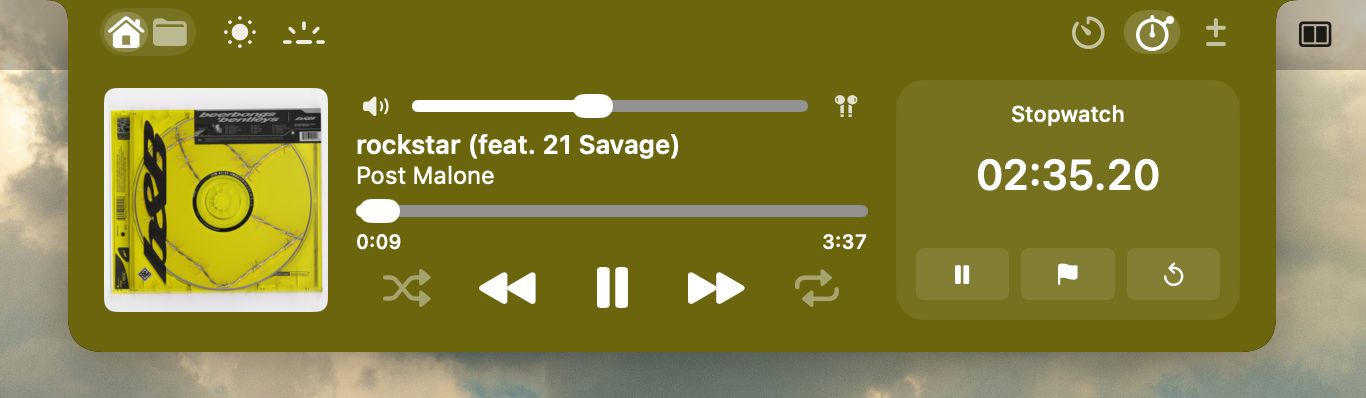
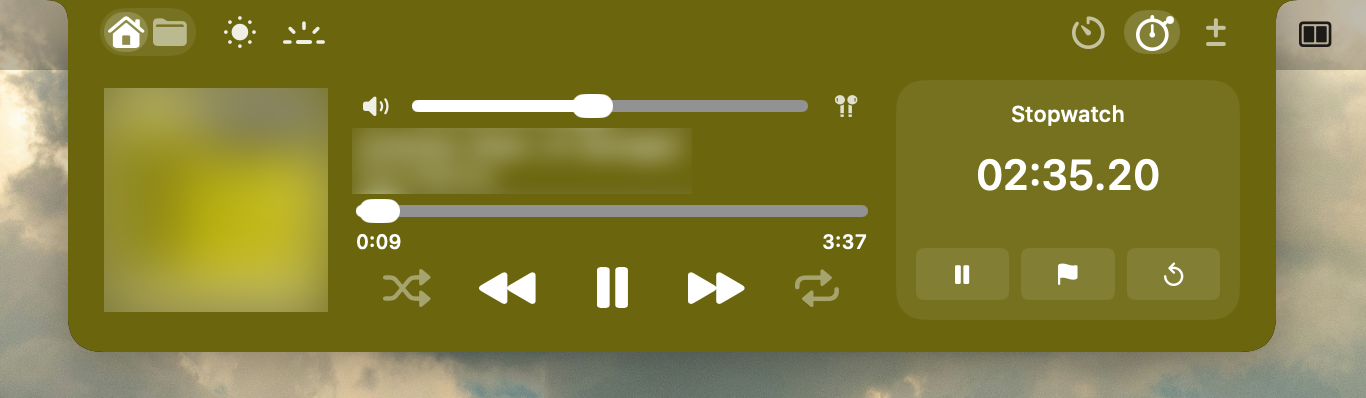
Screenshots: blur song info and cover art; link Releases page

Changed region(s): [[0.0615, 0.2111, 0.5227, 0.7839]]

diff --git a/README.md b/README.md
@@ -27,7 +27,7 @@ A "Dynamic Island" for the MacBook notch. Closed, it shows the album cover and a
 
 ## Install
 
-1. Download `FontaDynamicNotch-0.1.zip` from the [latest release](https://github.com/Fonta-lab/FontaDynamicNotch/releases/latest) and unzip it.
+1. Download `FontaDynamicNotch-0.1.zip` from the [Releases page](https://github.com/Fonta-lab/FontaDynamicNotch/releases) and unzip it.
 2. Drag **FontaDynamicNotch.app** into your Applications folder.
 3. The app is not notarized by Apple, so the first launch is blocked. Open it once, then go to **System Settings → Privacy & Security** and click **Open Anyway** (or right-click the app → Open).
 
